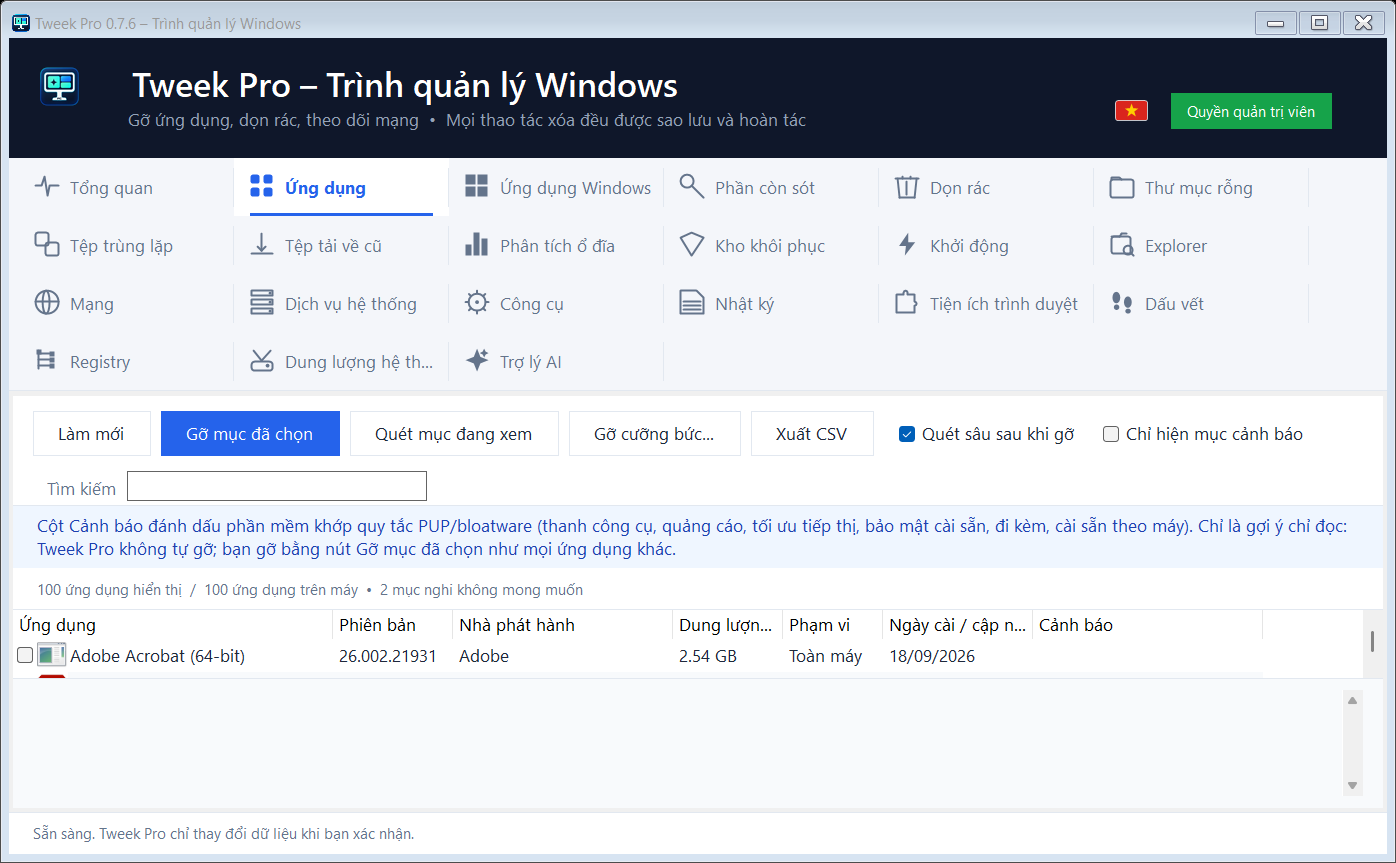
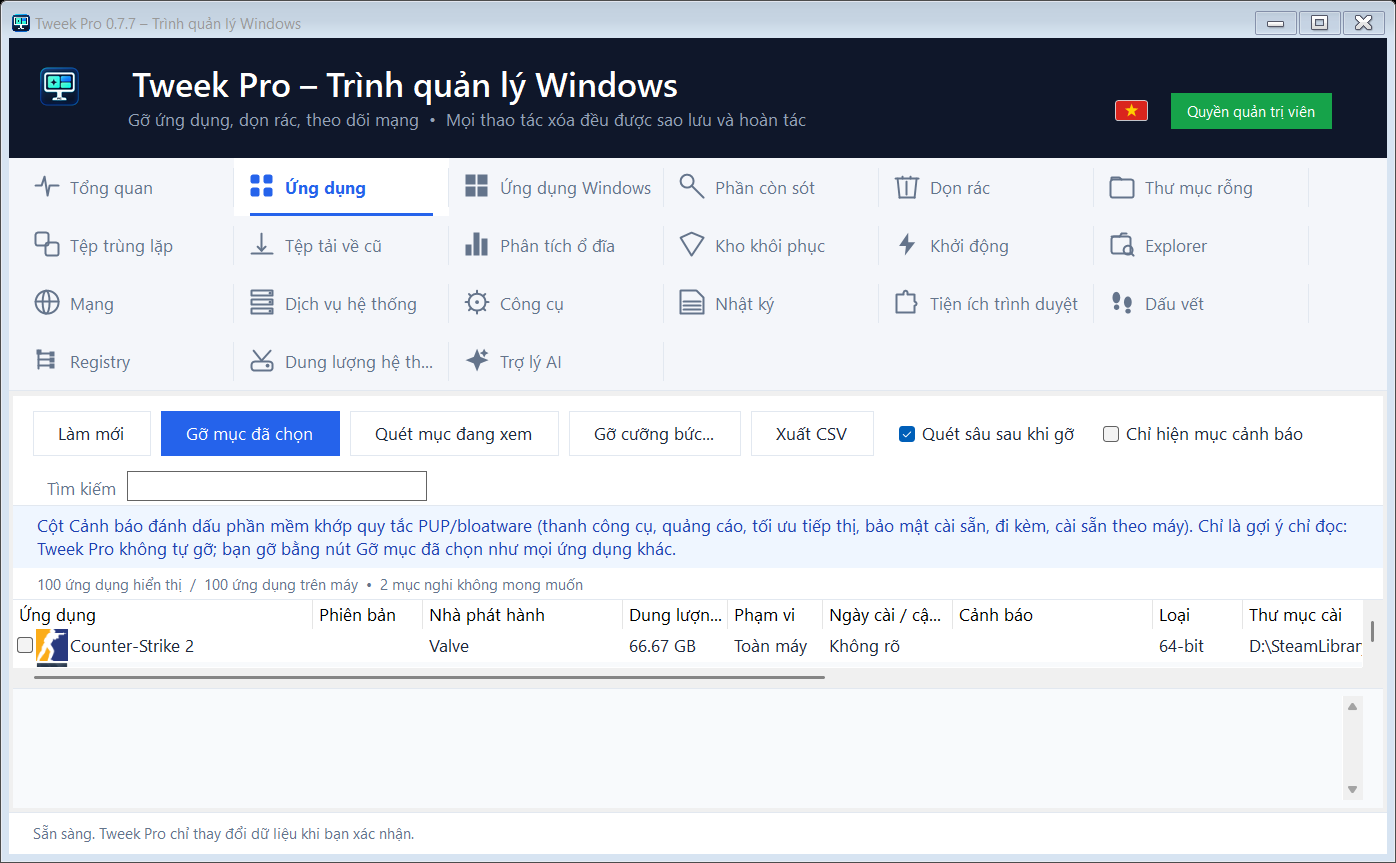
Applications tab: largest install first, Revo-style columns (type, folder, uninstall string, website, comments), quiet uninstall/registry/website actions

Changed region(s): [[0.0, 0.6628, 0.8625, 0.8134], [0.8933, 0.6929, 0.9857, 0.7532]]

diff --git a/App.cs b/App.cs
@@ -14,6 +14,8 @@ namespace TweekPro {
  public partial class MainForm:Form {
   ListView apps=new SmoothListView(),remnants=new SmoothListView(),backups=new SmoothListView();
   TextBox search=new TextBox(),details=new TextBox(),log=new TextBox();
+  /// <summary>Applications list order: column index (3 = size) and direction; largest first by default so the heaviest installs are on top.</summary>
+  int appSortColumn=3;bool appSortDescending=true;
   Label selectionSummary=new Label(),backupSummary=new Label();Label status=Theme.StatusBar();TabControl tabs=new TabControl();TabStrip tabStrip;
   Label appsOverlay,remnantsOverlay,backupsOverlay;TabPage remnantsTab;
   List<AppEntry> inventory=new List<AppEntry>(),history=new List<AppEntry>();
@@ -42,7 +44,8 @@ namespace TweekPro {
    var installed=new TabPage(Core.L.T("Ứng dụng"));var clean=new TabPage(Core.L.T("Phần còn sót"));var vault=new TabPage(Core.L.T("Kho khôi phục"));var logs=new TabPage(Core.L.T("Nhật ký"));
    tabs.TabPages.AddRange(new[]{installed,clean,vault,logs});
 
-   SetupList(apps,new[]{"Ứng dụng","Phiên bản","Nhà phát hành","Dung lượng *","Phạm vi","Ngày cài / cập nhật","Cảnh báo"},new[]{320,120,220,110,100,150,230},true);
+   SetupList(apps,new[]{"Ứng dụng","Phiên bản","Nhà phát hành","Dung lượng *","Phạm vi","Ngày cài / cập nhật","Cảnh báo","Loại","Thư mục cài","Lệnh gỡ","Trang web","Ghi chú"},new[]{300,110,200,105,95,130,200,90,260,320,200,220},true);
+   apps.ColumnClick+=(s,e)=>{if(e.Column==appSortColumn)appSortDescending=!appSortDescending;else{appSortColumn=e.Column;appSortDescending=e.Column==3||e.Column==5;}Filter();};
    var appsHost=Theme.ListHost(apps,out appsOverlay);
    var bar=Bar();
    Add(bar,"Làm mới",async()=>await Reload());
@@ -55,11 +58,11 @@ namespace TweekPro {
    var searchLabel=new Label{Text=Core.L.T("Tìm kiếm"),AutoSize=true,Margin=new Padding(8,9,4,0),ForeColor=Theme.Muted};
    search.Width=240;search.Height=28;search.Margin=new Padding(0,4,0,0);search.Font=Theme.Body;search.BorderStyle=BorderStyle.FixedSingle;search.ForeColor=Theme.Text;search.TextChanged+=(s,e)=>Filter();
    bar.Controls.Add(searchLabel);bar.Controls.Add(search);
-   details.Dock=DockStyle.Bottom;details.Height=92;details.Multiline=true;details.ReadOnly=true;details.ScrollBars=ScrollBars.Vertical;details.BackColor=Theme.Stripe;details.ForeColor=Theme.Muted;details.BorderStyle=BorderStyle.None;details.Font=Theme.Small;
-   var detailsWrap=new Panel{Dock=DockStyle.Bottom,Height=104,Padding=new Padding(16,10,16,10),BackColor=Theme.Stripe};Theme.BorderTop(detailsWrap);details.Dock=DockStyle.Fill;detailsWrap.Controls.Add(details);
+   details.Dock=DockStyle.Bottom;details.Height=84;details.Multiline=true;details.ReadOnly=true;details.ScrollBars=ScrollBars.Vertical;details.BackColor=Theme.Stripe;details.ForeColor=Theme.Muted;details.BorderStyle=BorderStyle.None;details.Font=Theme.Small;
+   var detailsWrap=new Panel{Dock=DockStyle.Bottom,Height=96,Padding=new Padding(16,6,16,6),BackColor=Theme.Stripe};Theme.BorderTop(detailsWrap);details.Dock=DockStyle.Fill;detailsWrap.Controls.Add(details);
    details.Text=Core.L.T("Chọn một ứng dụng để xem thông tin. Dùng ô tìm kiếm để lọc theo tên hoặc nhà phát hành.");
-   apps.SelectedIndexChanged+=(s,e)=>{var a=Selected();var verdict=a==null?null:Pup.PupDetector.Classify(a);details.Text=a==null?Core.L.T("Chọn một ứng dụng để xem thông tin."):a.Name+"  •  "+a.Version+"\r\n"+a.Publisher+"  |  "+Presentation.SizeLabel(a.Size)+"  |  "+Presentation.DateLabel(a.InstallDate)+"\r\n"+Core.L.T("Thư mục: ")+(String.IsNullOrWhiteSpace(a.Location)?Core.L.T("Chưa được ứng dụng khai báo"):a.Location)+"\r\n"+Core.L.T("Ngày do bộ cài cung cấp, có thể là ngày cập nhật. Giá trị gốc: ")+(String.IsNullOrWhiteSpace(a.InstallDate)?Core.L.T("không có"):a.InstallDate)+(verdict==null?"":"\r\n"+Core.L.T("Đánh giá: ")+verdict.Badge+" — "+Pup.PupDetector.SeverityLabel(verdict.Severity)+". "+verdict.Reason);};
-   appCount.Dock=DockStyle.Top;appCount.Height=34;appCount.Padding=new Padding(16,0,16,0);appCount.TextAlign=ContentAlignment.MiddleLeft;appCount.BackColor=Theme.Surface;appCount.ForeColor=Theme.Muted;appCount.Font=Theme.Small;Theme.BorderBottom(appCount);
+   apps.SelectedIndexChanged+=(s,e)=>{var a=Selected();details.Text=a==null?Core.L.T("Chọn một ứng dụng để xem thông tin."):AppDetails(a);};
+   appCount.Dock=DockStyle.Top;appCount.Height=26;appCount.Padding=new Padding(16,0,16,0);appCount.TextAlign=ContentAlignment.MiddleLeft;appCount.BackColor=Theme.Surface;appCount.ForeColor=Theme.Muted;appCount.Font=Theme.Small;Theme.BorderBottom(appCount);
    var pupNote=Theme.Note("Cột Cảnh báo đánh dấu phần mềm khớp quy tắc PUP/bloatware (thanh công cụ, quảng cáo, tối ưu tiếp thị, bảo mật cài sẵn, đi kèm, cài sẵn theo máy). Chỉ là gợi ý chỉ đọc: Tweek Pro không tự gỡ; bạn gỡ bằng nút Gỡ mục đã chọn như mọi ứng dụng khác.",NoteKind.Info);
    installed.Controls.Add(appsHost);installed.Controls.Add(detailsWrap);installed.Controls.Add(appCount);installed.Controls.Add(pupNote);installed.Controls.Add(bar);
 
@@ -189,8 +192,8 @@ namespace TweekPro {
   /// <summary>Representative applications for layout previews on systems without a Windows registry.</summary>
   static List<AppEntry> SampleInventory(){
    return new List<AppEntry>{
-    new AppEntry{Name="Adobe Acrobat (64-bit)",Version="26.002.21931",Publisher="Adobe",Size=2662400,Location=@"C:\Program Files\Adobe\Acrobat DC\",Command=@"C:\Program Files\Adobe\Acrobat DC\Acrobat\Setup.exe /uninstall",Hive="HKLM",View="64",Key=@"SOFTWARE\Microsoft\Windows\CurrentVersion\Uninstall\Acrobat",InstallDate="20260918"},
-    new AppEntry{Name="Brave",Version="153.1.95.104",Publisher="Brave Software Inc",Size=551600,Location=@"C:\Program Files\BraveSoftware\Brave-Browser\Application",Command=@"C:\Program Files\BraveSoftware\Brave-Browser\Application\153.1.95.104\Installer\setup.exe --uninstall",Hive="HKLM",View="64",Key=@"SOFTWARE\Microsoft\Windows\CurrentVersion\Uninstall\BraveSoftware Brave-Browser",InstallDate="20260919"},
+    new AppEntry{Name="Adobe Acrobat (64-bit)",Version="26.002.21931",Publisher="Adobe",Size=2662400,Location=@"C:\Program Files\Adobe\Acrobat DC\",Command=@"C:\Program Files\Adobe\Acrobat DC\Acrobat\Setup.exe /uninstall",Hive="HKLM",View="64",Key=@"SOFTWARE\Microsoft\Windows\CurrentVersion\Uninstall\Acrobat",InstallDate="20260918",Website="https://www.adobe.com/",Comments="Acrobat DC"},
+    new AppEntry{Name="Brave",Version="153.1.95.104",Publisher="Brave Software Inc",Size=551600,Location=@"C:\Program Files\BraveSoftware\Brave-Browser\Application",Command=@"C:\Program Files\BraveSoftware\Brave-Browser\Application\153.1.95.104\Installer\setup.exe --uninstall",Hive="HKLM",View="64",Key=@"SOFTWARE\Microsoft\Windows\CurrentVersion\Uninstall\BraveSoftware Brave-Browser",InstallDate="20260919",QuietCommand=@"C:\Program Files\BraveSoftware\Brave-Browser\Application\153.1.95.104\Installer\setup.exe --uninstall --force-uninstall",Website="https://brave.com/"},
     new AppEntry{Name="CapCut",Version="9.4.0.4015",Publisher="Bytedance Pte. Ltd.",Size=0,Location="",Command=@"C:\Users\ADMIN\AppData\Local\CapCut\Apps\uninstall.exe",Hive="HKCU",View="64",Key=@"SOFTWARE\Microsoft\Windows\CurrentVersion\Uninstall\CapCut",InstallDate=""},
     new AppEntry{Name="MySQL Server 8.0",Version="8.0.39",Publisher="Oracle Corporation",Size=612300,Location=@"C:\Program Files\MySQL\MySQL Server 8.0\",Command="MsiExec.exe /X{1A2B3C4D-0000-0000-0000-000000000001}",Msi=true,Hive="HKLM",View="64",Key=@"SOFTWARE\Microsoft\Windows\CurrentVersion\Uninstall\{1A2B3C4D-0000-0000-0000-000000000001}",InstallDate="20260701"},
     new AppEntry{Name="McAfee LiveSafe",Version="16.0 R70",Publisher="McAfee, LLC",Size=1048576,Location=@"C:\Program Files\McAfee\",Command=@"C:\Program Files\McAfee\MSC\mcuihost.exe /body:misp://MSCJsRes.dll::uninstall.html",Hive="HKLM",View="64",Key=@"SOFTWARE\Microsoft\Windows\CurrentVersion\Uninstall\MSC",InstallDate="20260101"},
@@ -213,6 +216,21 @@ namespace TweekPro {
     throw;
    }
   }
+  /// <summary>Text for the details pane: identity, size/date, folder, uninstall commands, registry key, website and PUP verdict.</summary>
+  static string AppDetails(AppEntry a){
+   var verdict=Pup.PupDetector.Classify(a);var sb=new StringBuilder();
+   sb.Append(a.Name).Append("  •  ").Append(a.Version).Append("  •  ").Append(a.TypeLabel).Append("\r\n");
+   sb.Append(a.Publisher).Append("  |  ").Append(Presentation.SizeLabel(a.Size)).Append("  |  ").Append(Presentation.DateLabel(a.InstallDate)).Append(String.IsNullOrWhiteSpace(a.InstallDate)?"":"  ("+Core.L.T("giá trị gốc: ")+a.InstallDate+")").Append("\r\n");
+   sb.Append(Core.L.T("Thư mục: ")).Append(String.IsNullOrWhiteSpace(a.Location)?Core.L.T("Chưa được ứng dụng khai báo"):a.Location).Append("\r\n");
+   sb.Append(Core.L.T("Lệnh gỡ: ")).Append(String.IsNullOrWhiteSpace(a.Command)?Core.L.T("không có"):a.Command).Append("\r\n");
+   if(!String.IsNullOrWhiteSpace(a.QuietCommand))sb.Append(Core.L.T("Lệnh gỡ im lặng: ")).Append(a.QuietCommand).Append("\r\n");
+   sb.Append(Core.L.T("Khóa Registry: ")).Append(a.Hive).Append(a.View=="32"?@"\WOW6432Node ":" ").Append(a.Key);
+   if(!String.IsNullOrWhiteSpace(a.Website))sb.Append("\r\n").Append(Core.L.T("Trang web: ")).Append(a.Website);
+   if(!String.IsNullOrWhiteSpace(a.Comments))sb.Append("\r\n").Append(Core.L.T("Ghi chú: ")).Append(a.Comments);
+   if(verdict!=null)sb.Append("\r\n").Append(Core.L.T("Đánh giá: ")).Append(verdict.Badge).Append(" — ").Append(Pup.PupDetector.SeverityLabel(verdict.Severity)).Append(". ").Append(verdict.Reason);
+   return sb.ToString();
+  }
+  static IEnumerable<AppEntry> SortApps(IEnumerable<AppEntry> list,int column,bool descending){return AppSort.Order(list,column,descending);}
   /// <summary>Fills missing install sizes on a low-priority worker and re-renders only if the inventory has not been replaced meanwhile.</summary>
   async Task MeasureSizes(List<AppEntry> measured){
    try{
@@ -228,12 +246,12 @@ namespace TweekPro {
     Theme.SetOverlay(appsOverlay,Core.L.F("Không đọc được danh sách ứng dụng.\r\n{0}\r\n\r\nBấm Làm mới để thử lại. Nếu khóa HKLM bị chặn, chạy Tweek Pro với quyền quản trị cùng tài khoản Windows.",inventoryError),NoteKind.Error);
     return;
    }
-   var checkedIds=new HashSet<string>(apps.CheckedItems.Cast<ListViewItem>().Select(i=>((AppEntry)i.Tag).Id));apps.BeginUpdate();apps.Items.Clear();details.Clear();string q=search.Text.Trim();bool onlyPup=pupOnly.Checked;int flagged=0;foreach(var a in inventory.Where(a=>(a.Name+" "+a.Publisher).IndexOf(q,StringComparison.CurrentCultureIgnoreCase)>=0)){
+   var checkedIds=new HashSet<string>(apps.CheckedItems.Cast<ListViewItem>().Select(i=>((AppEntry)i.Tag).Id));apps.BeginUpdate();apps.Items.Clear();details.Clear();string q=search.Text.Trim();bool onlyPup=pupOnly.Checked;int flagged=0;foreach(var a in SortApps(inventory.Where(a=>(a.Name+" "+a.Publisher+" "+a.Comments).IndexOf(q,StringComparison.CurrentCultureIgnoreCase)>=0),appSortColumn,appSortDescending)){
    var verdict=Pup.PupDetector.Classify(a);if(verdict!=null)flagged++;if(onlyPup&&verdict==null)continue;
    string location=String.IsNullOrWhiteSpace(a.Location)?Core.L.T("Chưa được ứng dụng khai báo thư mục cài"):a.Location;
    string flag=verdict==null?"":verdict.Badge+" • "+Pup.PupDetector.SeverityLabel(verdict.Severity);
    string sizeNote=!a.SizeMeasured?"":Sizing.SteamLibrary.AppIdOf(a.Key,a.Command)>0?"\r\n"+Core.L.T("Dung lượng do Steam ghi nhận; thư mục thật: ")+a.Location:"\r\n"+Core.L.T(a.SizePartial?"Dung lượng đo chưa đủ — thư mục quá lớn hoặc đọc quá lâu.":"Dung lượng đo từ thư mục cài (bộ cài không khai báo).")+(String.IsNullOrWhiteSpace(a.Location)?" "+Sizing.InstallSize.FolderOf(a):"");
-   var item=new ListViewItem(new[]{a.Name,a.Version,a.Publisher,Presentation.SizeLabel(a.Size)+(a.SizePartial?"+":""),a.Hive=="HKLM"?Core.L.T("Toàn máy"):Core.L.T("Tài khoản"),Presentation.DateLabel(a.InstallDate),flag}){Tag=a,ImageKey=a.Id,Checked=checkedIds.Contains(a.Id),ToolTipText=location+sizeNote+"\r\n"+Core.L.T("Ngày bộ cài khai báo: ")+(String.IsNullOrWhiteSpace(a.InstallDate)?Core.L.T("Không có"):a.InstallDate)+(verdict==null?"":"\r\n\r\n"+verdict.Badge+": "+verdict.Reason)};
+   var item=new ListViewItem(new[]{a.Name,a.Version,a.Publisher,Presentation.SizeLabel(a.Size)+(a.SizePartial?"+":""),a.Hive=="HKLM"?Core.L.T("Toàn máy"):Core.L.T("Tài khoản"),Presentation.DateLabel(a.InstallDate),flag,a.TypeLabel,a.Location??"",a.Command??"",a.Website??"",a.Comments??""}){Tag=a,ImageKey=a.Id,Checked=checkedIds.Contains(a.Id),ToolTipText=location+sizeNote+"\r\n"+Core.L.T("Ngày bộ cài khai báo: ")+(String.IsNullOrWhiteSpace(a.InstallDate)?Core.L.T("Không có"):a.InstallDate)+(String.IsNullOrWhiteSpace(a.Command)?"":"\r\n"+Core.L.T("Lệnh gỡ: ")+a.Command)+(verdict==null?"":"\r\n\r\n"+verdict.Badge+": "+verdict.Reason)};
    if(verdict!=null)item.ForeColor=verdict.Severity==Pup.PupSeverity.High?Theme.Danger:Theme.Warning;
    Theme.StripeRow(item,apps.Items.Count);apps.Items.Add(item);
   }apps.EndUpdate();appCount.Text=Core.L.F("{0} ứng dụng hiển thị  /  {1} ứng dụng trên máy",apps.Items.Count,inventory.Count)+(flagged>0?"  •  "+Core.L.F("{0} mục nghi không mong muốn",flagged):"");
@@ -367,7 +385,7 @@ namespace TweekPro {
    Log(summary);MessageBox.Show(this,summary,Core.L.T("Kết quả dọn kho"),MessageBoxButtons.OK,failed>0?MessageBoxIcon.Warning:MessageBoxIcon.Information);
   }
   string SavePath(string name){using(var dialog=new SaveFileDialog{Filter="CSV UTF-8|*.csv",FileName=name})return dialog.ShowDialog(this)==DialogResult.OK?dialog.FileName:null;}
-  void ExportApps(){string p=SavePath("TweekPro-applications.csv");if(p==null)return;var lines=new List<string>{"Name,Version,Publisher,SizeKB,RegistryView,InstallLocation,UninstallCommand"};lines.AddRange(inventory.Select(a=>String.Join(",",new[]{a.Name,a.Version,a.Publisher,a.Size.ToString(),a.Hive+"/"+a.View,a.Location,a.Command}.Select(Engine.Csv))));File.WriteAllLines(p,lines, new UTF8Encoding(true));Log(Core.L.T("Đã xuất danh sách: ")+p);}
+  void ExportApps(){string p=SavePath("TweekPro-applications.csv");if(p==null)return;var lines=new List<string>{"Name,Version,Publisher,SizeKB,RegistryView,Type,InstallDate,InstallLocation,UninstallCommand,QuietUninstallCommand,Website,Comments,RegistryKey"};lines.AddRange(SortApps(inventory,appSortColumn,appSortDescending).Select(a=>String.Join(",",new[]{a.Name,a.Version,a.Publisher,a.Size.ToString(),a.Hive+"/"+a.View,a.TypeLabel,a.InstallDate,a.Location,a.Command,a.QuietCommand,a.Website,a.Comments,a.Key}.Select(Engine.Csv))));File.WriteAllLines(p,lines, new UTF8Encoding(true));Log(Core.L.T("Đã xuất danh sách: ")+p);}
   void ExportCandidates(){string p=SavePath("TweekPro-review.csv");if(p==null)return;var lines=new List<string>{"App,Kind,Path,Hive,View,Reason"};lines.AddRange(candidates.Select(c=>String.Join(",",new[]{c.AppName,c.Kind,Presentation.CandidatePath(c),c.Hive,c.View,(c.ReviewOnly?Core.L.T("CHỈ XEM: "):"")+c.Reason}.Select(Engine.Csv))));File.WriteAllLines(p,lines,new UTF8Encoding(true));Log(Core.L.T("Đã xuất báo cáo: ")+p);}
  }
  public static class Program {

diff --git a/Engine.cs b/Engine.cs
@@ -11,10 +11,30 @@ using Microsoft.Win32;
 namespace TweekPro {
  public class AppEntry {
   public string Name, Publisher, Version, Location, Command, Key, Hive, View, InstallDate, DisplayIcon;
+  /// <summary>Extra Uninstall-key values shown in the Applications tab: QuietUninstallString, URLInfoAbout/HelpLink/URLUpdateInfo, Comments.</summary>
+  public string QuietCommand="", Website="", Comments="";
   public bool Msi; public long Size; public List<string> KnownExecutables=new List<string>();
+  /// <summary>"64-bit" / "32-bit" from the registry view, plus MSI when Windows Installer owns the entry.</summary>
+  public string TypeLabel { get { return (View=="32"?"32-bit":"64-bit")+(Msi?" • MSI":""); } }
   /// <summary>Size came from Steam bookkeeping or a folder walk rather than the installer's EstimatedSize; Partial means the walk hit its budget.</summary>
   public bool SizeMeasured, SizePartial;
   public string Id { get { return Hive+"|"+View+"|"+Key; } }
+ }
+
+ /// <summary>Ordering for the Applications list. Column indexes follow the tab: 0 name, 1 version, 2 publisher, 3 size, 4 scope, 5 date, 6 warning, 7 type, 8 folder, 9 uninstall command, 10 website, 11 comments.</summary>
+ public static class AppSort {
+  public const int SizeColumn=3, DateColumn=5;
+  /// <summary>Size and date compare numerically, everything else as case-insensitive text; ties fall back to the name so the order is stable.</summary>
+  public static IEnumerable<AppEntry> Order(IEnumerable<AppEntry> list,int column,bool descending){
+   IOrderedEnumerable<AppEntry> ordered;
+   if(column==SizeColumn)ordered=descending?list.OrderByDescending(a=>a.Size):list.OrderBy(a=>a.Size);
+   else if(column==DateColumn)ordered=descending?list.OrderByDescending(a=>a.InstallDate??""):list.OrderBy(a=>a.InstallDate??"");
+   else{
+    Func<AppEntry,string> key=a=>(column==1?a.Version:column==2?a.Publisher:column==4?a.Hive:column==6?(Pup.PupDetector.Classify(a)==null?"":"!"):column==7?a.TypeLabel:column==8?a.Location:column==9?a.Command:column==10?a.Website:column==11?a.Comments:a.Name)??"";
+    ordered=descending?list.OrderByDescending(key,StringComparer.CurrentCultureIgnoreCase):list.OrderBy(key,StringComparer.CurrentCultureIgnoreCase);
+   }
+   return ordered.ThenBy(a=>a.Name??"",StringComparer.CurrentCultureIgnoreCase);
+  }
  }
  public class Candidate {
   public string Kind, Path, Hive, View, Reason, AppId, AppName, ValueName, ExpectedHash; public bool ReviewOnly;
@@ -56,7 +76,8 @@ namespace TweekPro {
      foreach(string name in r.GetSubKeyNames()) { try { using(var k=r.OpenSubKey(name)) {
       if(k==null||Read(k,"DisplayName")==""||Read(k,"SystemComponent")=="1"||Read(k,"ParentKeyName")!="")continue;
       long size;long.TryParse(Read(k,"EstimatedSize"),out size);
-      list.Add(new AppEntry{Name=Read(k,"DisplayName"),Publisher=Read(k,"Publisher"),Version=Read(k,"DisplayVersion"),Location=Read(k,"InstallLocation").Trim().Trim('"'),Command=Read(k,"UninstallString"),Key=Uninstall+"\\"+name,Hive=h,View=v,Msi=Read(k,"WindowsInstaller")=="1",Size=size,InstallDate=Read(k,"InstallDate"),DisplayIcon=Read(k,"DisplayIcon")});
+      string site=Read(k,"URLInfoAbout");if(site=="")site=Read(k,"HelpLink");if(site=="")site=Read(k,"URLUpdateInfo");
+      list.Add(new AppEntry{Name=Read(k,"DisplayName"),Publisher=Read(k,"Publisher"),Version=Read(k,"DisplayVersion"),Location=Read(k,"InstallLocation").Trim().Trim('"'),Command=Read(k,"UninstallString"),QuietCommand=Read(k,"QuietUninstallString"),Website=site.Trim(),Comments=Read(k,"Comments").Trim(),Key=Uninstall+"\\"+name,Hive=h,View=v,Msi=Read(k,"WindowsInstaller")=="1",Size=size,InstallDate=Read(k,"InstallDate"),DisplayIcon=Read(k,"DisplayIcon")});
      }}catch(System.Security.SecurityException){}catch(UnauthorizedAccessException){} }
     }
    }

diff --git a/ContextMenus.cs b/ContextMenus.cs
@@ -31,6 +31,20 @@ namespace TweekPro {
    try{Clipboard.SetText(text);}catch(System.Runtime.InteropServices.ExternalException){}
   }
 
+  /// <summary>Opens an http(s) URL from an Uninstall key in the default browser; anything else is refused so a registry value cannot launch a program.</summary>
+  static void OpenWebsite(string url){
+   Uri uri;if(!Uri.TryCreate((url??"").Trim(),UriKind.Absolute,out uri)||(uri.Scheme!=Uri.UriSchemeHttp&&uri.Scheme!=Uri.UriSchemeHttps))throw new IOException(Core.L.T("Địa chỉ web không hợp lệ: ")+url);
+   Process.Start(new ProcessStartInfo(uri.AbsoluteUri){UseShellExecute=true});
+  }
+
+  /// <summary>Points Regedit's LastKey at the entry (WOW6432Node for 32-bit views on 64-bit Windows) and launches it.</summary>
+  static void OpenRegedit(string hive,string view,string key){
+   string sub=view=="32"&&Environment.Is64BitOperatingSystem?System.Text.RegularExpressions.Regex.Replace(key,"^SOFTWARE\\\\","SOFTWARE\\WOW6432Node\\",System.Text.RegularExpressions.RegexOptions.IgnoreCase):key;
+   string full=(hive=="HKLM"?"HKEY_LOCAL_MACHINE\\":"HKEY_CURRENT_USER\\")+sub;
+   using(var k=Microsoft.Win32.Registry.CurrentUser.CreateSubKey(@"Software\Microsoft\Windows\CurrentVersion\Applets\Regedit"))k.SetValue("LastKey",full);
+   Process.Start(new ProcessStartInfo("regedit.exe"){UseShellExecute=true});
+  }
+
   static void OpenInExplorer(string path){
    if(String.IsNullOrWhiteSpace(path))return;
    if(File.Exists(path))Process.Start(new ProcessStartInfo("explorer.exe","/select,\""+path+"\""){UseShellExecute=true});
@@ -49,6 +63,9 @@ namespace TweekPro {
     MenuItem(menu,"Mở thư mục cài",()=>{OpenInExplorer(a.Location);return Task.FromResult(0);},hasFolder,"chưa khai báo thư mục cài");
     MenuItem(menu,"Sao chép thư mục cài",()=>{CopyText(a.Location);return Task.FromResult(0);},!String.IsNullOrWhiteSpace(a.Location));
     MenuItem(menu,"Sao chép lệnh gỡ",()=>{CopyText(a.Command??"");return Task.FromResult(0);},!String.IsNullOrWhiteSpace(a.Command));
+    MenuItem(menu,"Sao chép lệnh gỡ im lặng",()=>{CopyText(a.QuietCommand??"");return Task.FromResult(0);},!String.IsNullOrWhiteSpace(a.QuietCommand),"bộ cài không khai báo");
+    MenuItem(menu,"Mở trang web nhà phát hành",()=>{OpenWebsite(a.Website);return Task.FromResult(0);},!String.IsNullOrWhiteSpace(a.Website),"bộ cài không khai báo");
+    MenuItem(menu,"Mở khóa Registry trong Regedit",()=>{OpenRegedit(a.Hive,a.View,a.Key);return Task.FromResult(0);});
     menu.Items.Add(new ToolStripSeparator());
     int checkedCount=apps.CheckedItems.Count;
     MenuItem(menu,"Bỏ đánh dấu tất cả",()=>{foreach(ListViewItem i in apps.Items)i.Checked=false;return Task.FromResult(0);},checkedCount>0);

diff --git a/Core/LangEn.cs b/Core/LangEn.cs
@@ -212,6 +212,8 @@ namespace TweekPro.Core {
    // Right-click menus on lists
    {"Gỡ ứng dụng này","Uninstall this application"},{"Quét phần còn sót của ứng dụng này","Scan this application's leftovers"},{"Mở thư mục cài","Open install folder"},{"chưa khai báo thư mục cài","no install folder declared"},
    {"Sao chép thư mục cài","Copy install folder"},{"Sao chép lệnh gỡ","Copy uninstall command"},{"Bỏ đánh dấu tất cả","Uncheck all"},{"Đường dẫn không còn tồn tại: ","Path no longer exists: "},
+   {"Lệnh gỡ","Uninstall command"},{"Trang web","Website"},{"giá trị gốc: ","raw value: "},{"Lệnh gỡ: ","Uninstall command: "},{"Lệnh gỡ im lặng: ","Quiet uninstall: "},{"Khóa Registry: ","Registry key: "},{"Trang web: ","Website: "},{"Ghi chú: ","Comments: "},
+   {"Sao chép lệnh gỡ im lặng","Copy quiet uninstall command"},{"Mở trang web nhà phát hành","Open publisher website"},{"Mở khóa Registry trong Regedit","Open registry key in Regedit"},{"bộ cài không khai báo","not provided by the installer"},{"Địa chỉ web không hợp lệ: ","Invalid web address: "},
    {"Gỡ gói này","Remove this package"},{"thành phần được bảo vệ","protected component"},{"Sao chép tên gói","Copy package name"},
    {"Tắt mục khởi động (sao lưu)","Disable startup entry (backed up)"},{"đã nằm trong kho","already in the vault"},{"vẫn đang có đăng ký","still registered"},{"Sao chép lệnh","Copy command"},
    {"Khôi phục mục này","Restore this item"},{"đã khôi phục","already restored"},{"Xóa vĩnh viễn mục này","Delete this item permanently"},{"Mở thư mục sao lưu","Open backup folder"},{"Mở vị trí gốc","Open original location"},{"Sao chép đường dẫn gốc","Copy original path"},

diff --git a/Tests07.cs b/Tests07.cs
@@ -56,6 +56,18 @@ namespace TweekPro {
     age();
     var rule=new JunkRule{Id="fixture",Name="Fixture",Group="Test",Paths=new List<string>{junkRoot},Patterns=new List<string>{"*"},Recurse=true,MinAgeHours=windows?24:0};
 
+    // Applications list ordering: largest first by default, text columns case-insensitive, stable tie-break on name, TypeLabel from view + MSI flag.
+    var big=new AppEntry{Name="zeta",Size=5000,View="64",Msi=true,InstallDate="20240101",Publisher="B"};
+    var small=new AppEntry{Name="alpha",Size=10,View="32",InstallDate="20250101",Publisher="a"};
+    var none=new AppEntry{Name="Mid",Size=0,View="64",InstallDate="",Publisher="c"};
+    var bySize=AppSort.Order(new[]{small,none,big},AppSort.SizeColumn,true).Select(a=>a.Name).ToArray();
+    Assert(bySize[0]=="zeta"&&bySize[1]=="alpha"&&bySize[2]=="Mid","largest install must be listed first");
+    Assert(AppSort.Order(new[]{small,none,big},AppSort.SizeColumn,false).First().Name=="Mid","ascending size puts unknown (0) first");
+    Assert(AppSort.Order(new[]{small,none,big},AppSort.DateColumn,true).First().Name=="alpha","newest install date first when descending");
+    Assert(String.Join(",",AppSort.Order(new[]{small,none,big},2,false).Select(a=>a.Publisher))=="a,B,c","publisher sort ignores case");
+    Assert(String.Join(",",AppSort.Order(new[]{small,none,big},0,false).Select(a=>a.Name))=="alpha,Mid,zeta","name sort ignores case");
+    Assert(big.TypeLabel=="64-bit • MSI"&&small.TypeLabel=="32-bit","TypeLabel reflects registry view and MSI flag");
+
     // Platform-neutral suites added alongside the 0.7 line; each restores any global state it touches.
     Dupes.DupeTests.Run();
     Analyzer.AnalyzerTests.Run();

diff --git a/README.md b/README.md
@@ -57,7 +57,7 @@ Tải bản mới nhất tại **[Releases](https://github.com/tuantien0001/Twee
 | Tab | Chức năng | An toàn |
 |---|---|---|
 | **Tổng quan** | Kiểm tra sức khỏe **tự chạy khi mở** (tắt được bằng «Tự kiểm tra khi mở»): điểm 0–100, hạng A–E, 7 khu vực (rác, phần còn sót, thư mục rỗng, Kho, khởi động, ổ trống, phần mềm không mong muốn), dung lượng giải phóng được; **vòng tròn dung lượng cho từng ổ đĩa cố định** (C:, D:, …) tô màu theo mức trống còn lại; bấm đúp mở tab xử lý; sao chép báo cáo; dải thông báo cập nhật | Chỉ đọc; khu vực không đo được không bị trừ điểm |
-| **Ứng dụng** | Ứng dụng desktop (HKLM/HKCU), gỡ theo hàng đợi, quét phần còn sót sau khi gỡ, cột **Cảnh báo** PUP/bloatware với lý do bằng lời thường, lọc «Chỉ hiện mục cảnh báo», CSV, chuột phải; **Gỡ cưỡng bức…** cho chương trình không còn trong danh sách (nhập tên + thư mục/.exe → quét sâu → Phần còn sót). **Dung lượng** lấy từ bộ cài; thiếu thì đọc sổ Steam (`libraryfolders.vdf`, kể cả thư viện ở ổ khác) hoặc đo thư mục cài / thư mục trình gỡ | Không dùng Win32_Product; chặn lệnh gỡ qua cmd/PowerShell; nhà phát hành cốt lõi (Microsoft, Google, Mozilla, NVIDIA, Intel, AMD…) không bao giờ bị đánh dấu; không đo Program Files, Windows hay gốc ổ đĩa |
+| **Ứng dụng** | Ứng dụng desktop (HKLM/HKCU), **dung lượng lớn nhất xếp trên** (bấm tiêu đề cột để xếp lại), gỡ theo hàng đợi, quét phần còn sót sau khi gỡ, cột **Cảnh báo** PUP/bloatware với lý do bằng lời thường, cột **Loại / Thư mục cài / Lệnh gỡ / Trang web / Ghi chú** như Revo, ô thông tin hiện lệnh gỡ im lặng và khóa Registry, lọc «Chỉ hiện mục cảnh báo», CSV, chuột phải (sao chép lệnh gỡ, mở trang web, mở Regedit); **Gỡ cưỡng bức…** cho chương trình không còn trong danh sách (nhập tên + thư mục/.exe → quét sâu → Phần còn sót). **Dung lượng** lấy từ bộ cài; thiếu thì đọc sổ Steam (`libraryfolders.vdf`, kể cả thư viện ở ổ khác) hoặc đo thư mục cài / thư mục trình gỡ | Không dùng Win32_Product; chặn lệnh gỡ qua cmd/PowerShell; nhà phát hành cốt lõi (Microsoft, Google, Mozilla, NVIDIA, Intel, AMD…) không bao giờ bị đánh dấu; không đo Program Files, Windows hay gốc ổ đĩa |
 | **Ứng dụng Windows** | Gói Appx/MSIX cài sẵn và Microsoft Store với logo thật; cột **Dung lượng** đo từ thư mục gói (game Xbox chuyển sang ổ khác được theo dõi qua liên kết `WindowsApps`); nhóm Gỡ được / Cần cân nhắc / Được bảo vệ; gỡ cho tài khoản hiện tại hoặc mọi tài khoản; mở trang Store, thư mục gói | Framework, gói `NonRemovable`, Start/Search/Settings/Windows Security/Edge và `Microsoft.Windows.*` bị khóa trong mã; Store/App Installer/Photos hỏi hai lần; Kho `Kind=Store` đăng ký lại từ thư mục gói |
 | **Phần còn sót** | Kết quả quét nhanh/sâu chờ duyệt; xem, chọn, xóa có sao lưu; hẹn xóa khi khởi động lại cho tệp bị giữ. Quét sâu dò thêm **dấu vết mở rộng** (`TraceHunter`): tên biến thể của ứng dụng, MUICache, AppCompat, FeatureUsage, quy tắc Firewall, SharedDLLs, StartupApproved (dọn được qua Kho) và đăng ký kiểu tệp/COM, RegisteredApplications, PATH, Event Log, Windows Installer, Tracing, CrashDumps, WER, Prefetch, Gần đây, Start Menu, thư mục tài liệu (Chỉ xem) | Từ chối dọn khi ứng dụng còn đăng ký; mục Chỉ xem không tích được; chỉ các vị trí giá trị trong danh sách cho phép mới xóa được; tên ngắn/chung chỉ vào Chỉ xem |
 | **Dọn rác** | Xem trước theo quy tắc (Temp, CrashDumps, WER, cache Explorer/GPU/trình duyệt, Rác hệ thống) với số tệp và dung lượng; vào Kho (mặc định) hoặc **Xóa thẳng** | Bỏ qua tệp < 24 giờ và tệp đang mở; cache trình duyệt khóa khi trình duyệt còn chạy; `JunkSafety` chặn Documents/Desktop/Downloads/OneDrive và mọi thư mục Windows lõi |
@@ -231,6 +231,10 @@ Tài liệu kèm theo: `AGENTS.md` (quy ước cho agent), `HANDOFF.md` (kiến 
 Chưa có theo dõi cài đặt (install monitor), bật/tắt tiện ích trình duyệt tại chỗ (chỉ gỡ), hay tự tải và cài bản mới im lặng (Kiểm tra cập nhật chỉ báo và mở trang tải). Không xác định được mọi dấu vết của mọi ứng dụng. Băng thông theo tiến trình chỉ tính từ khi bật ETW. Bản phân phối là một thư mục (exe + DLL). Chuỗi giao diện nằm trong mã (chưa `.resx`); một số thông báo nhật ký còn tiếng Việt khi chọn tiếng Anh.
 
 ## Lịch sử phiên bản
+
+### 0.7.8 (chưa phát hành)
+
+- **Ứng dụng**: danh sách mặc định xếp **dung lượng lớn nhất lên đầu** (tự cập nhật khi đo xong thư mục); bấm tiêu đề cột để đổi cách xếp (bấm lại để đảo chiều). Thêm 5 cột giống Revo: **Loại** (32/64-bit, MSI), **Thư mục cài**, **Lệnh gỡ** (UninstallString), **Trang web** (URLInfoAbout/HelpLink), **Ghi chú** (Comments). Ô thông tin bên dưới hiện đủ lệnh gỡ, lệnh gỡ im lặng (QuietUninstallString), khóa Registry (kể cả WOW6432Node), trang web, ghi chú. Chuột phải thêm **Sao chép lệnh gỡ im lặng**, **Mở trang web nhà phát hành** (chỉ nhận http/https) và **Mở khóa Registry trong Regedit**. CSV xuất thêm Type, InstallDate, QuietUninstallCommand, Website, Comments, RegistryKey và theo đúng thứ tự đang xem; ô tìm kiếm lọc cả phần ghi chú.
 
 ### 0.7.7 (22/09/2026)
 

diff --git a/WORKSTATE.md b/WORKSTATE.md
@@ -1,10 +1,15 @@
 # Tweek Pro — current work checkpoint
 
-Updated: 2026-09-22 17:48 (Asia/Bangkok).
-Status: DONE (Cursor). Owner (17:33): "push 0.7.7".
+Updated: 2026-09-22 18:20 (Asia/Bangkok).
+Status: DONE (Cursor). Owner (18:00): "Mục ứng dụng đang ít thông tin quá, thêm Uninstall String giống Revo…" + "xếp hạng các ứng dụng dung lượng cao nhất lên đầu".
 Last editor: Cursor.
 
-## Current task (17:48)
+## Current task (18:20)
+
+T. DONE Applications tab: Revo-style info + largest-first order. `Engine.cs`: `AppEntry` gains `QuietCommand`, `Website` (URLInfoAbout → HelpLink → URLUpdateInfo), `Comments`, `TypeLabel` ("64-bit"/"32-bit" + " • MSI"); `Inventory` reads them. New `AppSort.Order(list,column,descending)` (size/date numeric, text case-insensitive, tie on name). `App.cs`: 12 columns (adds Loại, Thư mục cài, Lệnh gỡ, Trang web, Ghi chú), `appSortColumn=3`/`appSortDescending=true` default so the biggest installs are on top and re-sort after `MeasureSizes`; `ColumnClick` toggles/changes sort; `AppDetails()` details pane (uninstall, quiet uninstall, registry key with WOW6432Node, website, comments, PUP verdict); search also matches Comments; CSV exports Type/InstallDate/Quiet/Website/Comments/RegistryKey in the current order; appCount 26 px, details 84/96 px so one row still fits in the 1280×820 preview with the horizontal scrollbar. `ContextMenus.cs`: "Sao chép lệnh gỡ im lặng", "Mở trang web nhà phát hành" (`OpenWebsite`, http/https only), "Mở khóa Registry trong Regedit" (`OpenRegedit(hive,view,key)`). LangEn pairs added. Test in `Tests07.Run()` (AppSort + TypeLabel). Build 0 W / 0 E; elevated self-test PASS 18:10; `--preview all` regenerated docs/screenshots (apps.png shows Counter-Strike 2 66.67 GB first). README tab table + `### 0.7.8 (chưa phát hành)`.
+- NEXT: commit + push to main, replace `C:\Program Files\Tweek Pro\TweekPro-0.7.7.exe` in place (owner's habit) or cut 0.7.8 when asked.
+
+## Previous task (17:48)
 
 S. DONE Release v0.7.7. `release.ps1 -Version 0.7.7` elevated → build 0 W / 0 E, self-test PASS 17:34, commit `1d78f41` "Release v0.7.7", tag `v0.7.7` (`9f78cbf`), both on origin. Actions run 35716739058 success — the ISCC step accepted the new ngen `[Run]`/`[UninstallRun]` lines. Release published 17:35 UTC+7 with `TweekPro-0.7.7-Setup.exe` (5.2 MB) + portable zip: https://github.com/tuantien0001/TweekPro/releases/tag/v0.7.7 . Setup installed (`/VERYSILENT /CLOSEAPPLICATIONS /NORESTART`, exit 0, 10 s incl. ngen); `ngen display` lists `TweekPro-0.7.7, Version=0.7.7.0` so the native image is in the NIC. `C:\Program Files\Tweek Pro\TweekPro-0.7.7.exe` 0.7.7.0 running since 17:47. README `### 0.7.7` finalized by the script; next changelog heading will be `### 0.7.8 (chưa phát hành)`.
 
